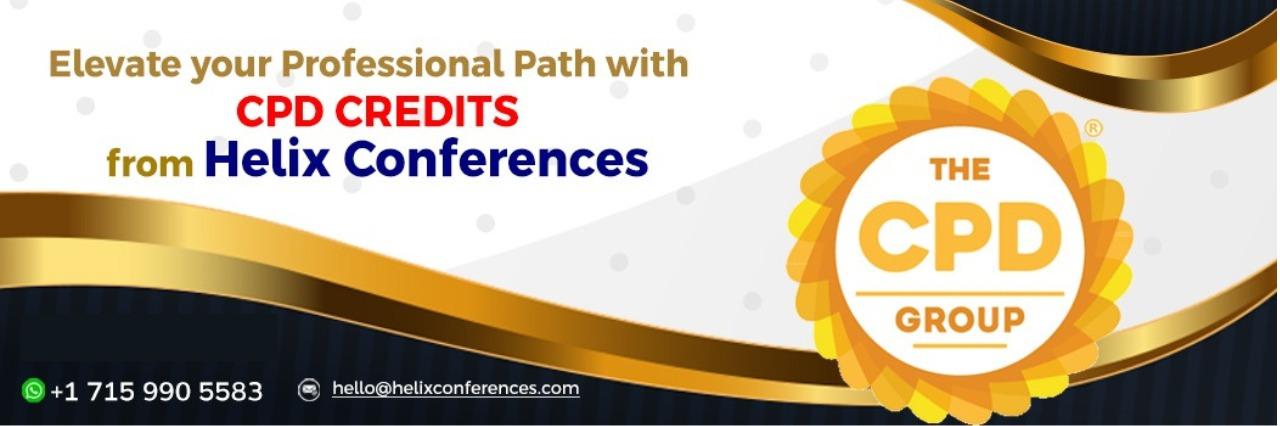
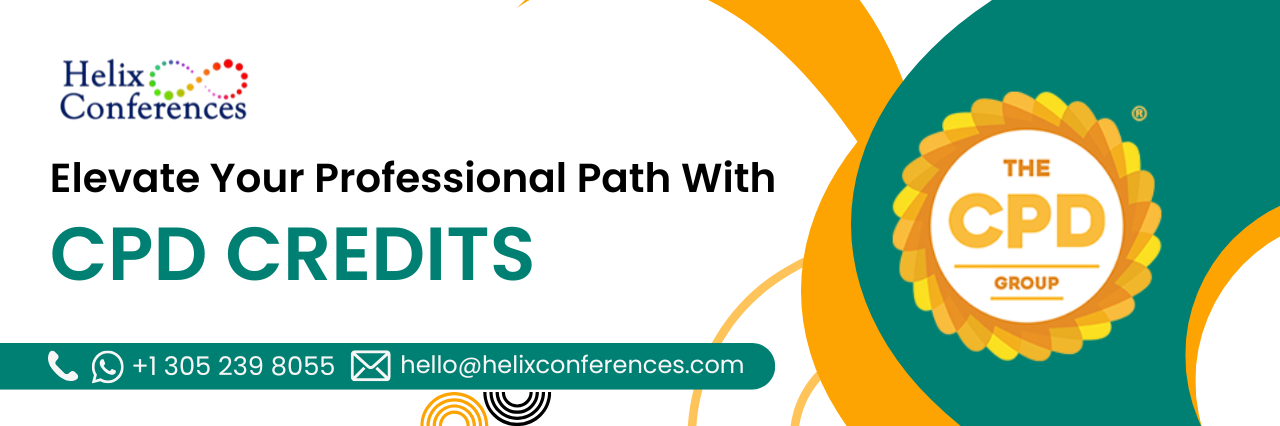
msg

diff --git a/src/pages/About.jsx b/src/pages/About.jsx
@@ -78,7 +78,7 @@ const data = {
      "Helix Conferences is committed to delivering an experience that combines scientific excellence with practical applications, ensuring attendees leave with actionable knowledge to advance practices.",
    ],
    aboutHelix: [
-     "Helix Conferences has a longstanding reputation as a premier global conference organizer specializing in healthcare and scientific events. With years of expertise in curating impactful conferences, Helix ensures that every detail of the 2025 Oral Medicine Conference is crafted to deliver maximum value to attendees.",
+     "Helix Conferences has a longstanding reputation as a premier global conference organizer specializing in healthcare and scientific events. With years of expertise in curating impactful conferences, Helix ensures that every detail of the 2026 Oral Medicine Conference is crafted to deliver maximum value to attendees.",
    ],
    whoShouldAttend: [
      "Oral medicine specialists and dentists",
@@ -88,7 +88,7 @@ const data = {
      "Students and trainees in dentistry and related fields",
    ],
    join: [
-     "The 2025 Public Health Conference by Helix Conferences is more than just an event, it's a global movement toward better public health through science, technology, and collaboration. Join thousands of professionals from around the world as they share knowledge, advance research, and inspire innovation in public health.",
+     "The 2026 Public Health Conference by Helix Conferences is more than just an event, it's a global movement toward better public health through science, technology, and collaboration. Join thousands of professionals from around the world as they share knowledge, advance research, and inspire innovation in public health.",
    ],
    themes: [
      {
@@ -171,7 +171,7 @@ const data = {
    dates: {
      eventDate: "25-26 June",
      venue: "Amsterdam | Netherlands",
-     registrationDeadline: "20th November",
+     registrationDeadline: "19th June",
    },
 };
 
@@ -185,7 +185,7 @@ const AboutPublicHealth = () => {
        </div>
 
        <h1 className="text-4xl mt-2 font-bold text-one">
-         World Biotechnology Summit
+      International Conference on Applied Lifesciences
        </h1>
        <p className="text-center text-gray-600 text-3xl mb-6">
          <strong>

diff --git a/src/pages/FAQPage.jsx b/src/pages/FAQPage.jsx
@@ -9,16 +9,16 @@ const faqLinks = {
 
 export const faqData = [
   {
-    question: "What is BIOCON 2025?",
+    question: "What is BIOCON 2026?",
     answer:
-      "BIOCON 2025, officially known as the “World Biotechnology Summit” (BIOCON-2025), is a premier International conference organized by Helix Conferences. The event aims to bring together Biotechnology Professionals, Researchers, and Industry leaders to discuss and explore Advancements & Innovations in Biotechnology.",
+      "BIOCON 2026, officially known as the “International Conference on Applied Lifesciences” (BIOCON-2026), is a premier International conference organized by Helix Conferences. The event aims to bring together Biotechnology Professionals, Researchers, and Industry leaders to discuss and explore Advancements & Innovations in Biotechnology.",
   },
   {
-    question: "When and Where will the BIOCON 2025 take place?",
-    answer: "The conference will be held in Valencia, Spain from November 25–27, 2025.",
+    question: "When and Where will the BIOCON 2026 take place?",
+    answer: "The conference will be held in Amsterdam, Netherlands from June 25–26, 2026.",
   },
   {
-    question: "What are the highlights of BIOCON 2025?",
+    question: "What are the highlights of BIOCON 2026?",
     answer:
       "Networking opportunities with Industry leaders and Biotechnology Professionals. Interactive Workshops and Sessions. Exhibitions showcasing Innovations, Products, and Services.",
   },
@@ -71,7 +71,7 @@ export const faqData = [
   {
     question: "What about my travel?",
     answer:
-      "We can assist with affordable flight booking options for your trip to Spain.",
+      "We can assist with affordable flight booking options for your trip to Netherlands.",
   },
   {
     question: "Are Travel, Hotel fees, and additional services covered by the event organizers?",
@@ -94,7 +94,7 @@ export const faqData = [
       "Presentation slots typically range from 15 to 25 minutes. Specific times will be assigned once your abstract is accepted.",
   },
   {
-    question: "Who will be attending the BIOCON 2025?",
+    question: "Who will be attending the BIOCON 2026?",
     answer:
       "This event is expected to attract a diverse group of professionals from the Global Biotechnology community.",
   },

diff --git a/src/components/ui/QuickLinks.jsx b/src/components/ui/QuickLinks.jsx
@@ -8,7 +8,7 @@ const links = [
     id: 'mobile',
     icon: Phone,
     label: 'Call Us',
-    path: 'tel:+17576567778'
+    path: 'tel:+13052398055'
   },
   {
     id: 'brochure-download',
@@ -32,7 +32,7 @@ const links = [
     id: 'whatsapp',
     icon: WhatsAppIcon,
     label: 'WhatsApp',
-    link: 'https://api.whatsapp.com/send/?phone=17159905583&text=Hello&type=phone_number&app_absent=0'
+    link: 'https://api.whatsapp.com/send/?phone=13052398055&text=Hello&type=phone_number&app_absent=0'
   },
   {
     id: 'faq',

diff --git a/src/components/Footer.jsx b/src/components/Footer.jsx
@@ -83,7 +83,7 @@ const Footer = () => {
           </div> */}
           <div className="flex flex-row gap-2 items-center justify-center md:justify-start">
             <WhatsAppIcon className="h-5 w-5 fill-slate-300"/>
-            <p>+1715 990 5583</p>
+            <p>+1-305-239-8055</p>
           </div>
           <div className="flex flex-row gap-2 items-center justify-center md:justify-start">
             <Mail size="18" />

diff --git a/src/pages/Home.jsx b/src/pages/Home.jsx
@@ -41,7 +41,7 @@ const Home = () => {
           </div>
 
           <h1 className="text-3xl md:text-6xl my-4 w-full md:w-[90vw]">
-            WORLD BIOTECHNOLOGY SUMMIT
+          International Conference on Applied Lifesciences
           </h1>
           <p className="text-2xl md:text-5xl text-slate-200">
             Biocon - 2026

diff --git a/src/components/Venue.jsx b/src/components/Venue.jsx
@@ -42,7 +42,7 @@ const Venue = () => {
                 <ArrowRightCircle size={16} className="text-one" />
                 {item.name}
               </li>
-            ))}
+            ))} 
           </ul>
         </div>
 

diff --git a/public/index.html b/public/index.html
@@ -26,7 +26,7 @@
     -->
     <title>
 
-      World Biotechnology Summit | Helix Conferences
+  International Conference on Applied Lifesciences | Helix Conferences
 
     </title>
     <!-- Google tag (gtag.js) -->
